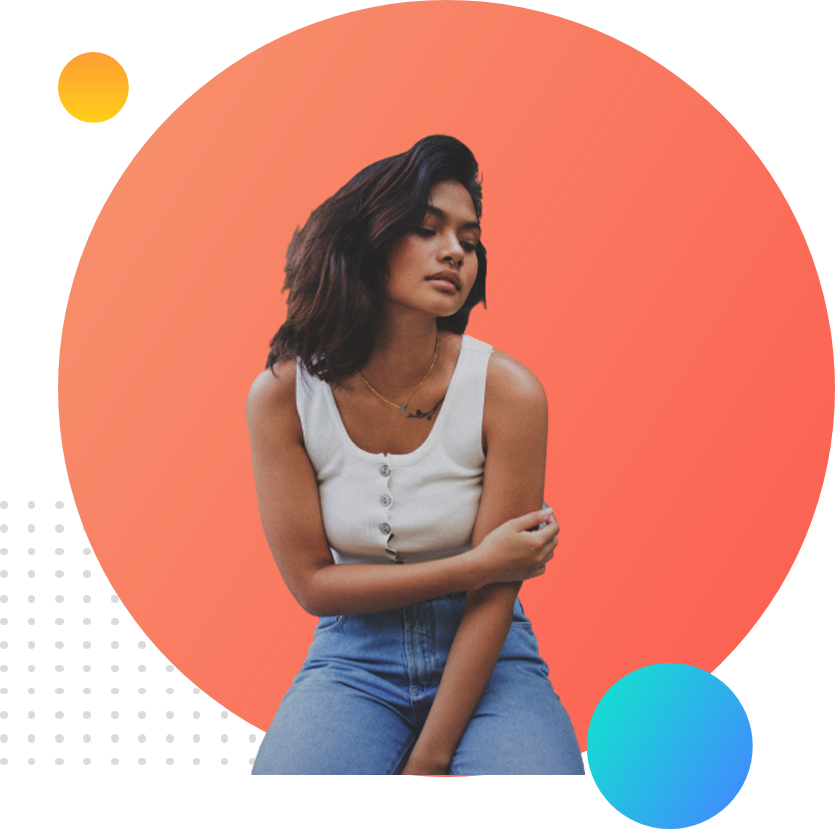
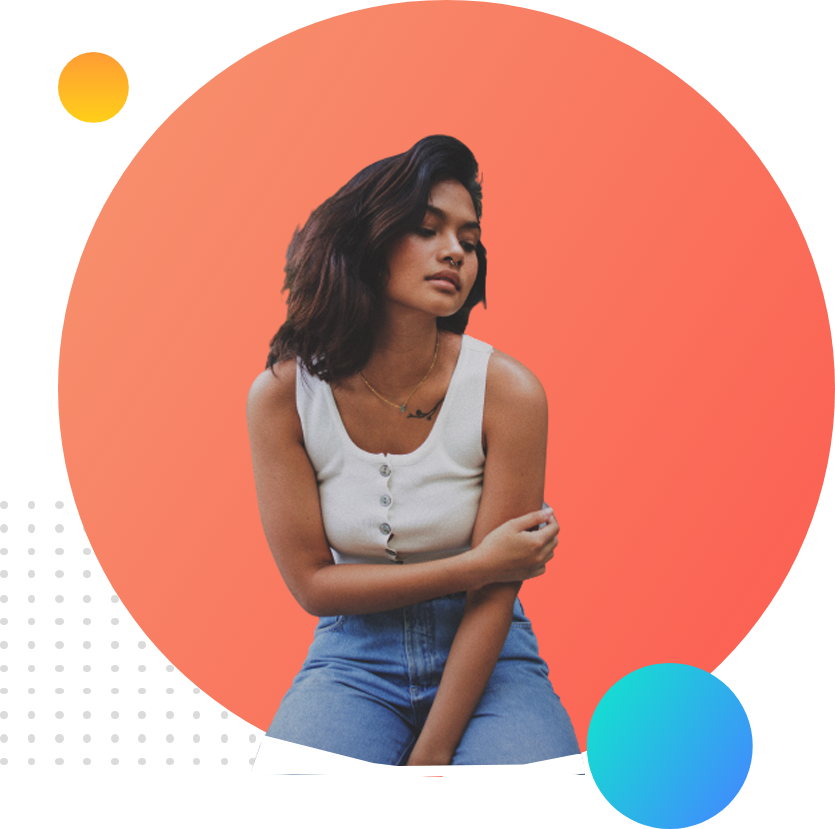
Footer added

Changed region(s): [[0.2802, 0.8745, 0.7162, 0.9349]]

diff --git a/index.html b/index.html
@@ -31,7 +31,7 @@
     <section class="dream_section full_container">
       <div class="container inline">
         <div class="left_item box">
-          <img src="images/my-bg.png" alt="Bg-Image" title="Bg-image" />
+          <img src="images/my-bg2.png" alt="Bg-Image" title="Bg-image" />
         </div>
         <div class="right_item box">
           <h1>Dream Big</h1>
@@ -77,5 +77,6 @@
       </div>
     </section>
     <!-- experience section done -->
+    <footer><p>© Peter Parker 2021, designed by pervej.</p></footer>
   </body>
 </html>

diff --git a/style.css b/style.css
@@ -179,3 +179,12 @@
 }
 
 /* experience_section done */
+
+footer p {
+  padding: 20px 0px;
+  text-align: center;
+  color: gray;
+  font-family: "Bona Nova", serif;
+  font-weight: 400;
+  font-size: 17px;
+}
